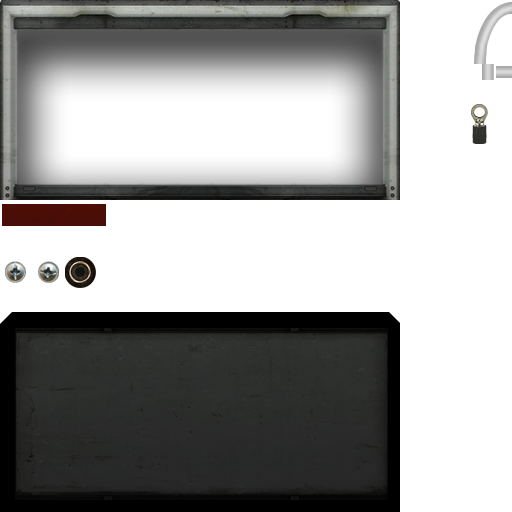
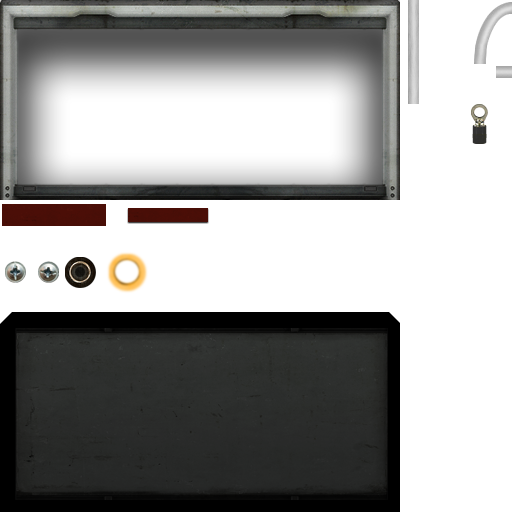
- Changes to connectionpanel layout: less wire overlap, making it easier to select individual wires - Highlighting selected wire and the items it's connected to works in editor

diff --git a/Subsurface/Source/Items/Components/Signal/Connection.cs b/Subsurface/Source/Items/Components/Signal/Connection.cs
@@ -64,11 +64,12 @@ namespace Barotrauma.Items.Components
             {
                 panelTexture = Sprite.LoadTexture("Content/Items/connectionpanel.png");
 
-                connector = new Sprite(panelTexture, new Rectangle(448, 80, 64, 64), Vector2.Zero, 0.0f);
-                connector.Origin = new Vector2(32.0f, 32.0f);
-                wireCorner = new Sprite(panelTexture, new Rectangle(448, 0, 64, 64), new Vector2(-32.0f, -32.0f), 0.0f);
-                wireVertical = new Sprite(panelTexture, new Rectangle(480, 64, 16, 16), new Vector2(-8.0f, -8.0f), 0.0f);
-                wireHorizontal = new Sprite(panelTexture, new Rectangle(496, 64, 16, 16), new Vector2(-8.0f, -8.0f), 0.0f);
+                connector       = new Sprite(panelTexture, new Rectangle(470, 102, 19,43), Vector2.Zero, 0.0f);
+                connector.Origin = new Vector2(9.5f, 10.0f);
+
+                wireCorner      = new Sprite(panelTexture, new Rectangle(448, 0, 64, 64), new Vector2(-32.0f, -32.0f), 0.0f);
+                wireVertical    = new Sprite(panelTexture, new Rectangle(408, 1, 11, 102), Vector2.Zero, 0.0f);
+                wireHorizontal  = new Sprite(panelTexture, new Rectangle(496, 64, 16, 16), new Vector2(-8.0f, -8.0f), 0.0f);
             }
 
             this.item = item;
@@ -202,8 +203,15 @@ namespace Barotrauma.Items.Components
 
             bool mouseInRect = panelRect.Contains(PlayerInput.MousePosition);
 
+            int totalWireCount = 0;
+            foreach (Connection c in panel.Connections)
+            {
+                totalWireCount += c.Wires.Count(w => w != null);
+            }
+
             Wire equippedWire = null;
-                        //if the Character using the panel has a wire item equipped
+
+            //if the Character using the panel has a wire item equipped
             //and the wire hasn't been connected yet, draw it on the panel
             for (int i = 0; i < character.SelectedItems.Length; i++)
             {
@@ -215,13 +223,17 @@ namespace Barotrauma.Items.Components
                 if (wireComponent != null) equippedWire = wireComponent;
             }
 
-            Vector2 rightPos = new Vector2(x + width - 110, y + 50);
-            Vector2 leftPos = new Vector2(x + 110, y + 50);
-            
-            float wireInterval = 10.0f;
+            Vector2 rightPos = new Vector2(x + width - 130, y + 50);
+            Vector2 leftPos = new Vector2(x + 130, y + 50);
 
-            float rightWireX = x + width / 2 + wireInterval;
-            float leftWireX = x + width / 2 - wireInterval;
+            Vector2 rightWirePos = new Vector2(x + width-5, y + 30);
+
+            Vector2 leftWirePos = new Vector2(x+5, y + 30);
+
+            int wireInterval = (height - 20) / Math.Max(totalWireCount,1);
+
+            float rightWireX = x + width;
+            float leftWireX = x;
             foreach (Connection c in panel.Connections)
             {
                 //if dragging a wire, let the Inventory know so that the wire can be
@@ -239,22 +251,25 @@ namespace Barotrauma.Items.Components
                 if (c.IsOutput)
                 {
                     c.Draw(spriteBatch, panel.Item, rightPos, 
-                        new Vector2(rightPos.X + 20, rightPos.Y),
-                        new Vector2(rightWireX, y + height), 
-                        mouseInRect, equippedWire != null);
+                        new Vector2(rightPos.X - GUI.SmallFont.MeasureString(c.Name).X - 20, rightPos.Y+3),
+                        rightWirePos, 
+                        mouseInRect, equippedWire != null, 
+                        wireInterval);
 
                     rightPos.Y += 30;
-                    rightWireX += wireInterval;
+                    rightWirePos.Y += c.Wires.Count(w => w!=null) * wireInterval;
                 }
                 else
                 {
                     c.Draw(spriteBatch, panel.Item, leftPos,
-                        new Vector2(leftPos.X - GUI.SmallFont.MeasureString(c.Name).X - 20, leftPos.Y),
-                        new Vector2(leftWireX, y + height), 
-                        mouseInRect, equippedWire != null);
+                        new Vector2(leftPos.X + 20, leftPos.Y-12),
+                        leftWirePos, 
+                        mouseInRect, equippedWire != null,
+                        wireInterval);
 
                     leftPos.Y += 30;
-                    leftWireX -= wireInterval;
+                    leftWirePos.Y += c.Wires.Count(w => w != null) * wireInterval;
+                    //leftWireX -= wireInterval;
                 }
             }
             
@@ -273,17 +288,6 @@ namespace Barotrauma.Items.Components
                     //break;
                 }
             }
-
-            //for (int i = 0; i < Character.SelectedItems.Length; i++ )
-            //{
-            //    Item selectedItem = Character.SelectedItems[i];
-
-            //    if (selectedItem == null) continue;
-
-            //    Wire wireComponent = selectedItem.GetComponent<Wire>();
-
-
-            //}
 
             //stop dragging a wire item if cursor is outside the panel
             if (mouseInRect) Inventory.draggingItem = null;
@@ -304,30 +308,30 @@ namespace Barotrauma.Items.Components
 
         }
 
-        private void Draw(SpriteBatch spriteBatch, Item item, Vector2 position, Vector2 labelPos, Vector2 wirePosition, bool mouseIn, bool wireEquipped)
+        private void Draw(SpriteBatch spriteBatch, Item item, Vector2 position, Vector2 labelPos, Vector2 wirePosition, bool mouseIn, bool wireEquipped, float wireInterval)
         {
-
-            spriteBatch.DrawString(GUI.SmallFont, Name, new Vector2(labelPos.X, labelPos.Y-10), Color.White);
+            //spriteBatch.DrawString(GUI.SmallFont, Name, new Vector2(labelPos.X, labelPos.Y-10), Color.White);
+            GUI.DrawString(spriteBatch, labelPos, Name, IsPower ? Color.Red : Color.White, Color.Black,0, GUI.SmallFont);
 
             GUI.DrawRectangle(spriteBatch, new Rectangle((int)position.X-10, (int)position.Y-10, 20, 20), Color.White);
             spriteBatch.Draw(panelTexture, position - new Vector2(16.0f, 16.0f), new Rectangle(64, 256, 32, 32), Color.White);
-            
+           
             for (int i = 0; i<MaxLinked; i++)
             {
                 if (Wires[i]==null || draggingConnected == Wires[i].Item) continue;
 
                 Connection recipient = Wires[i].OtherConnection(this);
 
-                DrawWire(spriteBatch, Wires[i].Item, (recipient == null) ? Wires[i].Item : recipient.item, position, wirePosition, mouseIn, wireEquipped);
-                wirePosition.X += (IsOutput) ? -20 : 20;
+                DrawWire(spriteBatch, Wires[i].Item, (recipient == null) ? Wires[i].Item : recipient.item, position, wirePosition,  mouseIn, wireEquipped);
+
+                wirePosition.Y += wireInterval;
             }            
             
-            //dragging a wire and released the mouse -> see if the wire can be connected to this connection
-            if (draggingConnected != null
-                && !PlayerInput.LeftButtonHeld())
+            if (draggingConnected != null && Vector2.Distance(position, PlayerInput.MousePosition) < 13.0f)
             {
-                //close enough to the connector -> make a new connection
-                if (Vector2.Distance(position, PlayerInput.MousePosition) < 10.0f)
+                spriteBatch.Draw(panelTexture, position - new Vector2(21.5f, 21.5f), new Rectangle(106, 250, 43, 43), Color.White);
+                
+                if (!PlayerInput.LeftButtonHeld())
                 {
                     //find an empty cell for the new connection
                     int index = FindWireIndex(null);
@@ -341,8 +345,8 @@ namespace Barotrauma.Items.Components
                         wireComponent.RemoveConnection(item);
 
                         if (wireComponent.Connect(this, !alreadyConnected)) Wires[index] = wireComponent;
-                    }                    
-                }               
+                    }
+                }
             }
 
             int screwIndex = (position.Y % 60 < 30) ? 0 : 1;
@@ -360,71 +364,62 @@ namespace Barotrauma.Items.Components
             {
                 if (!mouseIn) return;
                 end = PlayerInput.MousePosition;
+                start.X = (start.X+end.X)/2.0f;
             }
 
-            bool mouseOn = false;
-
             int textX = (int)start.X;
-            float connLength = 10.0f;
+            if (start.X < end.X)
+                textX -= 10;
+            else
+                textX += 10;
 
             float alpha = wireEquipped ? 0.5f : 1.0f;
 
-            //Color color = (wireEquipped) ? wireItem.Color * 0.5f : wireItem.Color;
+            bool mouseOn = 
+                !wireEquipped &&
+                (PlayerInput.MousePosition.X > Math.Min(start.X, end.X) &&
+                PlayerInput.MousePosition.X < Math.Max(start.X, end.X) &&
+                MathUtils.LineToPointDistance(start, end, PlayerInput.MousePosition) < 6) ||
+                Vector2.Distance(end, PlayerInput.MousePosition)<20.0f ||
+                new Rectangle((start.X < end.X) ? textX-100 : textX, (int)start.Y-5, 100, 14).Contains(PlayerInput.MousePosition);
 
-            if (Math.Abs(end.X-start.X)<connLength*6.0f)
+            GUI.DrawString(spriteBatch, 
+                new Vector2(start.X < end.X ? textX-GUI.SmallFont.MeasureString(item.Name).X : textX,start.Y -5.0f), 
+                item.Name, 
+                mouseOn ? Color.Gold : Color.White, Color.Black * 0.8f, 
+                3, GUI.SmallFont);
+
+            var wireEnd = end + Vector2.Normalize(start - end) * 30.0f;
+
+            float dist = Vector2.Distance(start, wireEnd);
+            
+            if (mouseOn)
             {
-                wireVertical.DrawTiled(spriteBatch, 
-                    new Vector2(end.X - wireVertical.size.X / 2, end.Y + connLength),
-                    new Vector2(wireVertical.size.X, (float)Math.Abs(end.Y - start.Y)), wireItem.Color * alpha);
-                textX = (int)end.X;
-                connector.Draw(spriteBatch, end, Color.White*alpha);
-
-                //spriteBatch.Draw(panelTexture, end, new Rectangle(32, 256, 32, 32), Color.White);
+                spriteBatch.Draw(wireVertical.Texture, new Rectangle(wireEnd.ToPoint(), new Point(18, (int)dist)), wireVertical.SourceRect,
+                    Color.Gold,
+                    MathUtils.VectorToAngle(end - start) + MathHelper.PiOver2,     //angle of line (calulated above)
+                    new Vector2(6, 0), // point in line about which to rotate
+                    SpriteEffects.None,
+                    0.0f);
             }
-            else
-            {
-                Vector2 pos = new Vector2(start.X, end.Y + wireCorner.size.Y+1) - wireVertical.size / 2;
-                Vector2 size = new Vector2(wireVertical.size.X, (float)Math.Abs((end.Y + wireCorner.size.Y) - start.Y));
-                wireVertical.DrawTiled(spriteBatch, pos, size, wireItem.Color * alpha);
-
-                Rectangle rect = new Rectangle((int)pos.X, (int)pos.Y, (int)size.X, (int)size.Y);
-                if (!wireEquipped && rect.Contains(PlayerInput.MousePosition)) mouseOn = true;
-
-                float dir = (end.X > start.X) ? -1.0f : 1.0f;
-
-                wireCorner.Draw(spriteBatch,
-                    new Vector2(start.X, end.Y+25), wireItem.Color * alpha, 0.0f, 1.0f,
-                    (end.X > start.X) ? SpriteEffects.None : SpriteEffects.FlipHorizontally);
-
-                float wireStartX = start.X - wireCorner.size.X / 2 * dir;
-                float wireEndX = end.X + connLength * dir;
-
-                pos = new Vector2(Math.Min(wireStartX,wireEndX), end.Y - wireVertical.size.Y / 2);
-                size = new Vector2(Math.Abs(wireStartX - wireEndX), wireHorizontal.size.Y);
-
-                wireHorizontal.DrawTiled(spriteBatch, pos, size, wireItem.Color * alpha);
-                rect = new Rectangle((int)pos.X, (int)pos.Y, (int)size.X, (int)size.Y);
-                if (!wireEquipped && rect.Contains(PlayerInput.MousePosition)) mouseOn = true;
-
-                connector.Draw(spriteBatch, end, Color.White*alpha, -MathHelper.PiOver2*dir);
-            }
+            spriteBatch.Draw(wireVertical.Texture, new Rectangle(wireEnd.ToPoint(), new Point(12, (int)dist)), wireVertical.SourceRect,
+                wireItem.Color * alpha,
+                MathUtils.VectorToAngle(end - start) + MathHelper.PiOver2,     //angle of line (calulated above)
+                new Vector2(6, 0), // point in line about which to rotate
+                SpriteEffects.None,
+                0.0f);
 
             if (draggingConnected == null && !wireEquipped)
             {
-                if (mouseOn || Vector2.Distance(end, PlayerInput.MousePosition)<20.0f)
+                if (mouseOn)
                 {
                     item.IsHighlighted = true;
+                    wireItem.IsHighlighted = true;
+
                     //start dragging the wire
                     if (PlayerInput.LeftButtonHeld()) draggingConnected = wireItem;                    
                 }
             }
-                            
-            spriteBatch.DrawString(GUI.Font, item.Name, 
-                new Vector2(textX, start.Y-30), 
-                (mouseOn && !wireEquipped) ? Color.Gold : Color.White, 
-                MathHelper.PiOver2, 
-                GUI.Font.MeasureString(item.Name)*0.5f, 
-                1.0f, SpriteEffects.None, 0.0f);
         }
 
         public void Save(XElement parentElement)

diff --git a/Subsurface/Source/Items/Components/Signal/Wire.cs b/Subsurface/Source/Items/Components/Signal/Wire.cs
@@ -327,10 +327,19 @@ namespace Barotrauma.Items.Components
             //    GUI.DrawRectangle(spriteBatch, new Rectangle((int)nodes[i].X, (int)-nodes[i].Y, 5, 5), Color.DarkGray, true, wireSprite.Depth - 0.01f);
             //}
 
+            if (item.IsHighlighted)
+            {
+                for (int i = 1; i < Nodes.Count; i++)
+                {
+                    DrawSection(spriteBatch, Nodes[i], Nodes[i - 1], Color.Gold, 0.5f);
+                }
+            }
+
             for (int i = 1; i < Nodes.Count; i++)
             {
                 DrawSection(spriteBatch, Nodes[i], Nodes[i - 1], item.Color);
             }
+
 
             if (IsActive && Vector2.Distance(newNodePos, Nodes[Nodes.Count - 1]) > nodeDistance)
             {
@@ -404,7 +413,7 @@ namespace Barotrauma.Items.Components
             }
         }
 
-        private void DrawSection(SpriteBatch spriteBatch, Vector2 start, Vector2 end, Color color)
+        private void DrawSection(SpriteBatch spriteBatch, Vector2 start, Vector2 end, Color color, float width = 0.3f)
         {
             if (Submarine.Loaded!=null)
             {
@@ -419,7 +428,7 @@ namespace Barotrauma.Items.Components
                 start, null, color,
                 MathUtils.VectorToAngle(end - start),
                 new Vector2(0.0f, wireSprite.size.Y / 2.0f),
-                new Vector2((Vector2.Distance(start, end)) / wireSprite.Texture.Width, 0.3f),
+                new Vector2((Vector2.Distance(start, end)) / wireSprite.Texture.Width,  width),
                 SpriteEffects.None,
                 wireSprite.Depth + ((item.ID % 100) * 0.00001f));
         }

diff --git a/Subsurface/Source/Screens/EditMapScreen.cs b/Subsurface/Source/Screens/EditMapScreen.cs
@@ -432,7 +432,6 @@ namespace Barotrauma
 
             if (characterMode)
             {
-
                 CreateDummyCharacter();
             }
             else if (dummyCharacter != null)
@@ -674,11 +673,6 @@ namespace Barotrauma
                 }
                 else
                 {
-                    foreach (MapEntity me in MapEntity.mapEntityList)
-                    {
-                        me.IsHighlighted = false;
-                    }
-
                     if (dummyCharacter.SelectedConstruction==null)
                     {
                         Vector2 mouseSimPos = FarseerPhysics.ConvertUnits.ToSimUnits(dummyCharacter.CursorPosition);
@@ -768,7 +762,12 @@ namespace Barotrauma
             //EntityPrefab.DrawList(spriteBatch, new Vector2(20,50));
             
             if ((characterMode || wiringMode) && dummyCharacter != null)                     
-            { 
+            {
+                foreach (MapEntity me in MapEntity.mapEntityList)
+                {
+                    me.IsHighlighted = false;
+                }
+
                 dummyCharacter.AnimController.FindHull(dummyCharacter.CursorWorldPosition, false); 
 
                 foreach (Item item in dummyCharacter.SelectedItems)

diff --git a/Subsurface/Source/Items/Components/Signal/ConnectionPanel.cs b/Subsurface/Source/Items/Components/Signal/ConnectionPanel.cs
@@ -40,7 +40,7 @@ namespace Barotrauma.Items.Components
             if (Screen.Selected != GameMain.EditMapScreen &&
                 character.IsKeyHit(InputType.Select) && 
                 character.SelectedConstruction==this.item) character.SelectedConstruction = null;
-
+            
             Connection.DrawConnections(spriteBatch, this, character);
         }
 
